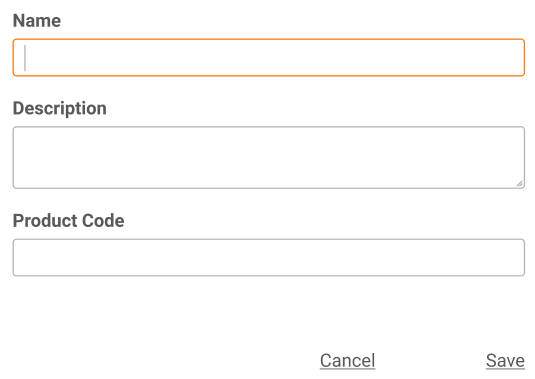
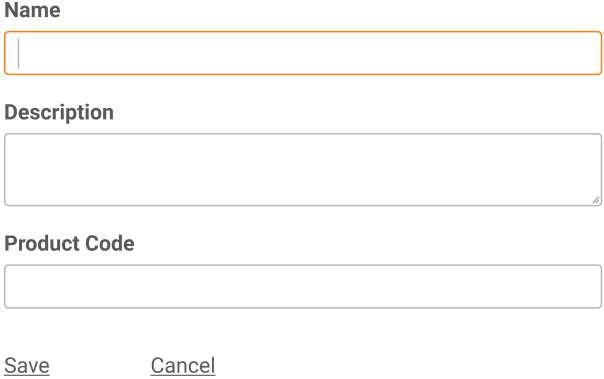
Feature/feedback clockwork (#619)
* WIP feedback clockwork

* Update design post

* Final remarks for design blog post

* Review opmerkingen design post

diff --git a/_posts/2020-07-28-10-Best-Practices-In-UX-UI-Design.md b/_posts/2020-07-28-10-Best-Practices-In-UX-UI-Design.md
@@ -37,35 +37,39 @@ The company logo is typically placed in the top left corner (on sites designed f
 
 ## 2. Make clickable elements obvious
 ### Buttons
-CTA ([Call To Action](https://en.wikipedia.org/wiki/Call_to_action_(marketing)){:target="_blank" rel="noopener noreferrer"}) buttons need to stand out from the rest of the page so it immediately draws the user's attention.
+Confirmation buttons need to stand out from the rest of the page so they immediately draw the user's attention.
 Adding a shadow effect to the buttons lets the user know it's clickable and they can interact with it.
 Notice the difference between the following examples:
 
 Example 1:
-<img alt="Clear CTA button" src="{{ '/img/2020-07-28-Best-Practices-In-UX-UI-Design/CTA-colored.png' | prepend: site.baseurl }}" class="image fit" style="margin:0px auto; max-width: 300px;"> 
+<img alt="Clear confirmation button" src="{{ '/img/2020-07-28-Best-Practices-In-UX-UI-Design/CTA-colored.png' | prepend: site.baseurl }}" class="image fit" style="margin:0px auto; max-width: 300px;"> 
 
 Example 2:
-<img alt="Unclear CTA button" src="{{ '/img/2020-07-28-Best-Practices-In-UX-UI-Design/CTA-bland.png' | prepend: site.baseurl }}" class="image fit" style="margin:0px auto; max-width: 300px;">
+<img alt="Unclear confirmation button" src="{{ '/img/2020-07-28-Best-Practices-In-UX-UI-Design/CTA-bland.png' | prepend: site.baseurl }}" class="image fit" style="margin:0px auto; max-width: 300px;">
 
 In the bottom example the label to save the form is still concise and clear, users should thus still be able to eventually save the data, but it takes a moment longer to register which button to click to make this happen. 
 Remember, the user wants to spend as little time as possible determining the next course of action. 
 
-Let's also discuss the 'Cancel' and 'OK' (or other confirming actions such as 'Save', 'Yes', 'Submit', etc) buttons. 
 So-called secondary actions like 'Cancel' should look the least appealing of the options because it usually isn't the next action the user wants to take.
 Making them the least appealing minimizes the chance of misclicks and nudges the user further towards a successful ending, such as a purchase.
+
+Let's also discuss the location and order of the 'Cancel' and 'OK' (or other confirmation actions such as 'Save', 'Yes', 'Submit', etc) buttons. 
 
 In Windows apps, the 'OK' button should come first and the 'Cancel' button second. 
 This implementation follows the 'natural reading order' (again, on sites designed for left-to-right reading).
 Additionally, keyboard users will also reach the 'OK' button sooner.
 
-<img alt="Unclear CTA button" src="{{ '/img/2020-07-28-Best-Practices-In-UX-UI-Design/OkCancelWindows.png' | prepend: site.baseurl }}" class="image fit" style="margin:0px auto; max-width: 450px;">
+<img alt="Unclear confirmation button" src="{{ '/img/2020-07-28-Best-Practices-In-UX-UI-Design/OkCancelWindows.png' | prepend: site.baseurl }}" class="image fit" style="margin:0px auto; max-width: 450px;">
 
 On Apple machines however, 'Cancel' will come first and 'OK' second.
 The idea here is that the flow feels more natural since the 'OK' button closes that section and the next step ('OK') is placed most right, whilst the previous step ('Cancel') is placed left.
 
 <img alt="Order of OK and Cancel on Apple machines" src="{{ '/img/2020-07-28-Best-Practices-In-UX-UI-Design/OkCancelApple.png' | prepend: site.baseurl }}" class="image fit" style="margin:0px auto; max-width: 450px;">
 
-When designing for the web, it's best to choose whichever convention is used by most of your users, so based on their operating system. 
+When designing for the web, we usually opt to put the buttons on the left-side of the screen, with the confirmation button first. 
+'Example 1' in this section illustrates this as well:
+
+<img alt="Clear confirmation button" src="{{ '/img/2020-07-28-Best-Practices-In-UX-UI-Design/CTA-colored.png' | prepend: site.baseurl }}" class="image fit" style="margin:0px auto; max-width: 300px;"> 
 
 ### Hyperlinks
 Clickable words on a web page are best underlined and shown in a different color than the rest of the text. 
@@ -97,6 +101,9 @@ The following text is much more confusing:
 
 What is supposed to be communicated here? 'Subtitle 2' using the same coloring as 'Subtitle 1' but it's just as large as 'Title'. 
 So does the author mean it's still part of the 'Title' section or did he or she mean to create a whole separate section with a different 'Title'? Instructions unclear.
+
+For screen readers (and other assistive technologies), it's best to show titles by using the different title tags that are available in HTML, such as `<h1>`, `<h2>`, etc. 
+This way, the screen reader is aware that that specific text is a (sub)title and can communicate this information to the user.
 
 ## 4. Be honest
 One of the biggest irks of customers is being presented with crucial information and extra costs late in the ordering process. 
@@ -134,6 +141,9 @@ The icons for search, shopping cart, profile, etc.. are well-known and you shoul
 
 <img alt="Use well-known icons" src="{{ '/img/2020-07-28-Best-Practices-In-UX-UI-Design/icons.png' | prepend: site.baseurl }}" class="image fit" style="margin:0px auto; max-width: 300px;">
 
+Also, unless you're using icons that are well-known and absolutely clear on their purpose, like the icons above, it's always a good idea to add labels to your icons.
+If you're unsure about the use of labels, user testing will tell you whether users are experiencing issues with your icons without labels or not.
+
 How you label your links and buttons is important as well. When users are looking for job opportunities on your website, typical keywords are 'Careers' or 'Jobs'.
 By using for example 'Employment', users might not be able to find your career page (as easily). 
 
@@ -145,23 +155,34 @@ Take a look at the following example from ASOS:
 <img alt="ASOS uses very clear breadcrumbs" src="{{ '/img/2020-07-28-Best-Practices-In-UX-UI-Design/asos.png' | prepend: site.baseurl }}" class="image fit" style="margin:0px auto; max-width: 400px;">
 
 With breadcrumbs, users can see in the blink of an eye in which (sub)category the current page belongs. 
-The user perhaps ended up on this page by clicking a 'Recommended for you!' link and maybe he or she wants to take a look at similar items as well. 
-Being able to actually click on a (sub)category in the breadcrumbs help to do exactly that. 
+This is interesting for your users who ended up on a specific product page through a Google search. 
+By using breadcrumbs, your users are able to quickly understand where they are situated within your website.
+Being able to actually click on a (sub)category in the breadcrumbs will help your users to easily retrieve an overview of similar products. 
 
 Even when you're just mindlessly browsing a website and you clicked on twenty different items within a category, you don't want to click the back button twenty-one times to go back to the actual results within the current category.
 Breadcrumbs make sure that your user can browse your website more easily, which creates less frustration for your user, which hopefully creates a higher conversion. 
 
 ## 8. Less clicks = better
+Usually.
+
 Try to save the user clicks as much as possible. 
 Like Steve Krug describes in his [*Don't Make Me Think*](http://sensible.com/dmmt.html){:target="_blank" rel="noopener noreferrer"}, instead of only providing a tracking number for a shipment, you can add a link to the e-mail that opens the carrier's website with the tracking number already filled in.
 Another example would be to provide a Google Maps preview on the contact page instead of just providing the address.
 
 When possible, also try to mention any form errors while the user is entering the data. 
-Whether it be the phone number format or a password that is too short, anything that can be detected should immediately be communicated to the user instead of waiting until the user clicks 'Submit'. 
+Whether it be the phone number format or a password that is too short, anything that can be detected client-side should immediately be communicated to the user instead of waiting until the user clicks 'Submit'. 
+
+Now, I said *'usually'* at the beginning of this section. 
+There are of course a few exceptions. 
+One of them is the FAQ page.
+If you want to provide quite some questions and answers, it's best not to throw it all into one big overview.
+A good idea here would be to provide all the possible questions in a list and make these questions clickable.
+The answer should then only show up after the user has clicked on the question. 
+This will provide a clean, clear, concise and easy to browse FAQ page for your user, even though there are a few more clicks involved.  
 
 ## 9. Dropdown lists
 Dropdown lists are simple to implement and easy to use so they are present on countless websites.
-The key here is to only start using dropdown lists when we're talking about seven or more options. 
+The key here is to only start using dropdown lists when we're talking about five or more options. 
 When there are less options present, radio buttons might be a better choice for you so the user can see all the available options immediately.
 
 ## 10. Include visual indicators of length and size
@@ -188,3 +209,5 @@ As said before in this blog post, it's practically impossible to please everyone
 What's aesthetically pleasing to one person might not be so for the next one.
 But user experience is more than the look, the layout, the colors used. 
 We're also talking about flow here, about creating an experience for each user, regardless of impairment, that helps them reach their goal flawlessly, without frustration, with little nudges in the right direction.
+
+If you're looking for some UX/UI design experts to help with your projects, don't hesitate to contact my colleagues at [Clockwork](http://cw.be/){:target="_blank" rel="noopener noreferrer"}!
